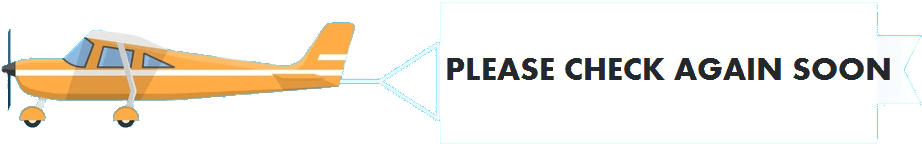
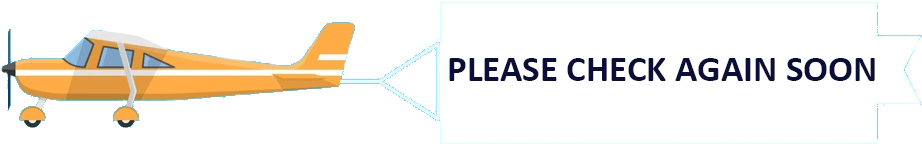
Optimizing for mobile

Changed region(s): [[0.4859, 0.3889, 0.9718, 0.5833]]

diff --git a/src/views/AirplanesForSaleView.tsx b/src/views/AirplanesForSaleView.tsx
@@ -6,8 +6,8 @@ import vxAviationLogo from '../assets/img/logos/vx-aviation-logo-with-title-effe
 
 function AirplanesForSaleView() {
 	return (
-		<section className="mt-[10vh] flex flex-col justify-center items-center py-20" style={{ backgroundImage: `url(${pattern})` }}>
-			<h3 className='uppercase text-4xl text-center text-black mt-10 mb-16 font-medium'>No active listings are currently available</h3>
+		<section className="mt-[10vh] flex flex-col justify-center items-center pt-5 pb-10 md:py-20 px-5" style={{ backgroundImage: `url(${pattern})` }}>
+			<h3 className='uppercase text-2xl sm:text-4xl text-center text-tertiary mt-10 mb-16 font-medium'>No active listings are currently available</h3>
 			<div className='overflow-hidden'>
 				<motion.img
 					src={airplaneBanner}
@@ -18,8 +18,8 @@ function AirplanesForSaleView() {
 				/>
 			</div>
 			<div className='flex items-center mt-12'>
-				<p className='text-black'>Sincerely,</p>
-				<img src={vxAviationLogo} alt='Vx Aviation Logo' className='h-40' />
+				<p className='text-tertiary'>Sincerely,</p>
+				<img src={vxAviationLogo} alt='Vx Aviation Logo' className='ml-5 max-h-[100px] lg:max-h-40' />
 			</div>
 		</section>
 	)

diff --git a/src/components/ViewSpecificComponents/FlightSchoolView/UpToDateTrainingSection.tsx b/src/components/ViewSpecificComponents/FlightSchoolView/UpToDateTrainingSection.tsx
@@ -20,7 +20,7 @@ function UpToDateTrainingSection() {
 					opacity: isInView ? 1 : 0,
 					transition: "all 0.8s ease-in-out"
 				}}>
-				<div className='container mx-auto h-full flex flex-col justify-center'>
+				<div className='container pl-5 lg:pl-0 mx-auto h-full flex flex-col justify-center'>
 					<h3 className='text-lg lg:text-4xl font-bold uppercase text-shadow'>Safe and up to date</h3>
 					<h3 className=' text-5xl lg:text-8xl font-bold uppercase text-shadow'>Training</h3>
 				</div>
